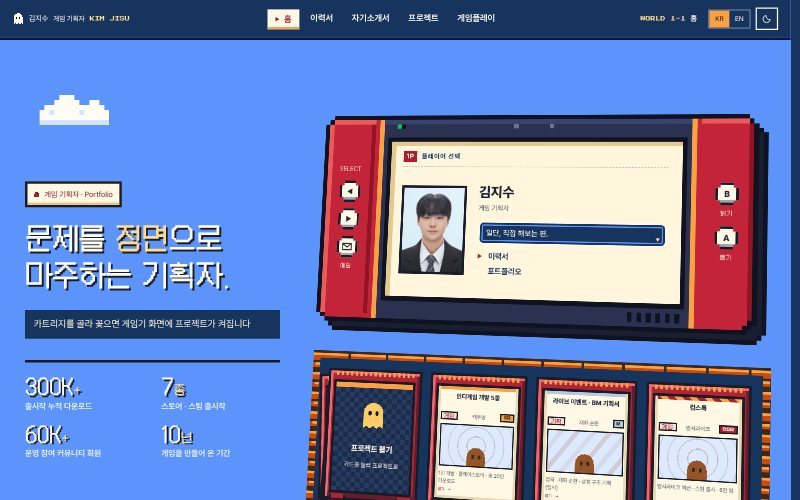
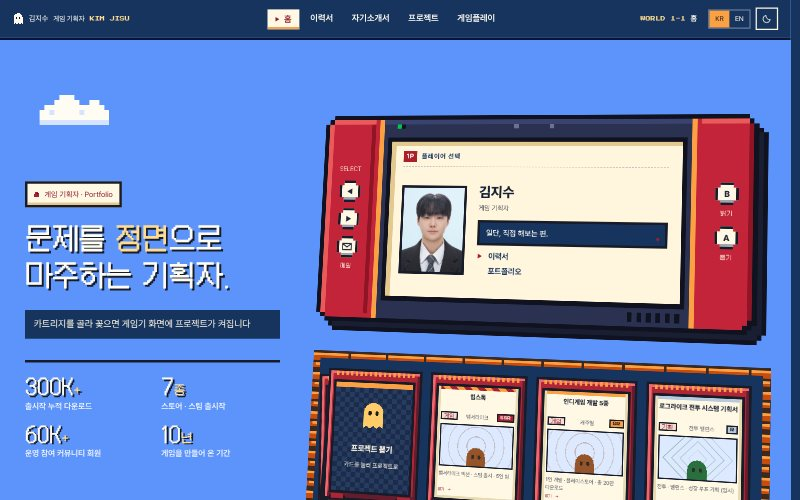
12회차 스테이지 — 하늘은 첫 화면까지, 그 아래 벽돌 땅 → 어두운 지하 + 메뉴 화면 배치
- 배경: 지면(풀 + 벽돌)이 이어지다 그라데이션으로 어두워져 푸터까지 유지. 지면 높이는
  pixel-fc-level.js 가 재서 main 의 --lv-surface 로, 그림은 main::before. 바닥 쪽 두 번째 지면은 제거
- 홈: 개요 절을 .lv-menu 로 묶어 퀘스트(7)+인벤토리(5) / 업적(7)+저장 슬롯(5) 메뉴 화면 한 장
- 하위 페이지: 인적사항 두 단, 핵심역량 한 줄, 경력 날짜 칸 | 내용, 자기소개서 2×2
- 지하의 창 밖 글자는 밝게, 하늘 위 페이지 머리는 남색 유지
- 미리보기 · 회의록 12회차 · CLAUDE.md · 시안 설명(ko/en) 갱신

Claude-Session: https://claude.ai/code/session_01AUp6JzWobjNfSK2Kptzc4x

diff --git a/assets/css/themes/pixel-fc-folio.css b/assets/css/themes/pixel-fc-folio.css
@@ -551,6 +551,91 @@
 :root[data-skin-theme="pixel"][data-skin="pixel-fc-level"] .detail__info::after { content: none; }
 :root[data-skin-theme="pixel"][data-skin="pixel-fc-level"] .detail__title { color: var(--level-white, #fffdf3); text-shadow: var(--level-type-shadow); }
 
+/* ── 12회차: 땅 위 · 땅 밑 ───────────────────────────────────────────────────
+   하늘은 첫 화면(하위 페이지는 페이지 머리)까지만. 그 아래는 지면(풀 한 줄 + 벽돌)이 이어지다 어두운 지하로 내려가
+   푸터까지 그대로. 지면 높이 --lv-surface 는 pixel-fc-level.js 가 재서 main 에 넣습니다(못 재면 첫 화면 높이쯤). */
+:root[data-skin="pixel-fc-level"] { --lv-deep: #0b1122; --lv-under-ink: #edf1f8; --lv-under-muted: #bcc6da; }
+:root[data-skin="pixel-fc-level"][data-theme="dark"] { --lv-deep: #070b16; }
+:root[data-skin-theme="pixel"][data-skin="pixel-fc-level"] main { position: relative; isolation: isolate; --lv-surface: 620px; padding-bottom: 72px; }
+:root[data-skin-theme="pixel"][data-skin="pixel-fc-level"] main::before {
+  content: ''; position: absolute; z-index: -1; inset: var(--lv-surface) 0 0; pointer-events: none;
+  background:
+    linear-gradient(#00a800, #00a800) 0 0 / 100% 8px no-repeat,
+    linear-gradient(#0b6b1c, #0b6b1c) 0 8px / 100% 4px no-repeat,
+    linear-gradient(to bottom, rgb(11 17 34 / 0) 0, rgb(11 17 34 / 0) 44px, rgb(11 17 34 / .6) 140px, rgb(11 17 34 / .9) 240px, var(--lv-deep) 340px) 0 0 / 100% 100% no-repeat,
+    var(--level-ground) 0 12px / 64px 32px repeat;
+  background-color: var(--lv-deep);
+}
+/* 첫 화면의 언덕은 지면 위에 그대로, 풀 · 벽돌은 지하 그림이 이어서 그림 */
+:root[data-skin-theme="pixel"][data-skin="pixel-fc-level"] .home-screen { padding-bottom: 80px; }
+:root[data-skin-theme="pixel"][data-skin="pixel-fc-level"] .home-screen::after { height: 80px; background: var(--level-hill) 8% 0 / 160px 80px no-repeat; }
+/* 바닥 쪽 지면(푸터 위 풀 · 벽돌)은 지하라 없앰 — 푸터도 어두운 지하 그대로 */
+:root[data-skin-theme="pixel"][data-skin="pixel-fc-level"] .footer { margin-top: 0; padding-top: 48px; background: var(--lv-deep); border-top: 4px solid #1d2742; }
+:root[data-skin-theme="pixel"][data-skin="pixel-fc-level"] .footer::before { content: none; }
+/* 지하의 글자: 창 밖(절 설명 · 더 보기 · 상세 왼쪽 칸)은 어두운 바탕 위 밝은 글자 */
+:root[data-skin-theme="pixel"][data-skin="pixel-fc-level"] main > :is(.section, .lv-menu) {
+  --heading: #fffdf3; --text: var(--lv-under-ink); --text-muted: var(--lv-under-muted); --gui-sky-ink: var(--lv-under-muted);
+}
+:root[data-skin-theme="pixel"][data-skin="pixel-fc-level"] .hp .hp-more { color: var(--lv-under-ink); border-bottom-color: #ffdc90; }
+:root[data-skin-theme="pixel"][data-skin="pixel-fc-level"] .hp .hp-more:hover { color: #ffdc90; }
+/* 하위 페이지의 페이지 머리(하늘 위)는 그대로 남색 · 크림 글자 */
+:root[data-skin-theme="pixel"][data-skin="pixel-fc-level"] main > .section:first-of-type :is(.section__head, .proj-head) { --gui-sky-ink: #102346; --text: #102346; --text-muted: #102346; }
+:root[data-skin="pixel-fc-level"][data-theme="dark"] main > .section:first-of-type :is(.section__head, .proj-head) { --gui-sky-ink: #eef3ff; --text: #eef3ff; --text-muted: #eef3ff; }
+/* 페이지 머리와 내용 사이에 지면이 들어갈 자리 */
+:root[data-skin-theme="pixel"][data-skin="pixel-fc-level"] main > .section:first-of-type :is(.section__head, .proj-head) { margin-bottom: 132px; }
+:root[data-skin-theme="pixel"][data-skin="pixel-fc-level"] main > .fcs-stage { margin-bottom: 0; }
+:root[data-skin-theme="pixel"][data-skin="pixel-fc-level"] main > .fcs-stage + .section { padding-top: 112px; }
+:root[data-skin-theme="pixel"][data-skin="pixel-fc-level"] .detail__info { --heading: #fffdf3; --text: var(--lv-under-ink); --text-muted: var(--lv-under-muted); }
+
+/* ── 12회차: 홈 지하 = 메뉴 화면 한 장 ──────────────────────────────────────
+   위 줄 퀘스트(7) + 인벤토리(5), 아래 줄 업적(7) + 저장 슬롯(5). 두 줄의 세로 선이 맞고, 창 높이는 줄마다 같음.
+   '더 보기'는 각 창 바로 아래 오른쪽. */
+:root[data-skin-theme="pixel"][data-skin="pixel-fc-level"] .lv-menu {
+  display: grid; grid-template-columns: minmax(0, 1fr); gap: 56px;
+  width: min(100% - var(--gutter) * 2, var(--folio-max)); margin: 0 auto; padding: 104px 0 24px;
+}
+:root[data-skin-theme="pixel"][data-skin="pixel-fc-level"] .lv-menu > .hp { padding: 0; margin: 0; border: 0; }
+:root[data-skin-theme="pixel"][data-skin="pixel-fc-level"] .lv-menu > .hp > .wrap { width: 100%; max-width: none; padding: 0; margin: 0; }
+:root[data-skin-theme="pixel"][data-skin="pixel-fc-level"] .lv-menu > .hp:not(.hp--summary) > .wrap:not(:has(> .hp-block + .hp-block)),
+:root[data-skin-theme="pixel"][data-skin="pixel-fc-level"] .lv-menu > .hp--summary > .wrap { display: flex; flex-direction: column; height: 100%; }
+:root[data-skin-theme="pixel"][data-skin="pixel-fc-level"] .lv-menu > .hp > .wrap > .hp-block,
+:root[data-skin-theme="pixel"][data-skin="pixel-fc-level"] .lv-menu > .hp > .wrap > .hp-games { flex: 1 1 auto; }
+:root[data-skin-theme="pixel"][data-skin="pixel-fc-level"] .lv-menu .hp-more { margin-top: 18px; }
+@media (min-width: 1000px) {
+  :root[data-skin-theme="pixel"][data-skin="pixel-fc-level"] .lv-menu { grid-template-columns: minmax(0, 7fr) minmax(0, 5fr); gap: 56px 40px; }
+  :root[data-skin-theme="pixel"][data-skin="pixel-fc-level"] .lv-menu > .hp:first-child { grid-column: 1 / -1; }
+  :root[data-skin-theme="pixel"][data-skin="pixel-fc-level"] .lv-menu > .hp:first-child > .wrap { grid-template-columns: minmax(0, 7fr) minmax(0, 5fr); column-gap: 40px; row-gap: 0; align-items: stretch; }
+  /* 저장 슬롯은 좁은 오른쪽 칸이라 세로 목록 */
+  :root[data-skin-theme="pixel"][data-skin="pixel-fc-level"] .lv-menu .hp-games { grid-template-columns: minmax(0, 1fr); }
+  :root[data-skin-theme="pixel"][data-skin="pixel-fc-level"] .lv-menu .hp-games > .hp-game { padding: 16px 0; }
+  :root[data-skin-theme="pixel"][data-skin="pixel-fc-level"] .lv-menu .hp-games > .hp-game:first-child { padding-top: 0; }
+  :root[data-skin-theme="pixel"][data-skin="pixel-fc-level"] .lv-menu .hp-games > .hp-game:last-child { padding-bottom: 0; }
+  :root[data-skin-theme="pixel"][data-skin="pixel-fc-level"] .lv-menu .hp-games > .hp-game + .hp-game { border-left: 0; border-top: var(--gui-sep); }
+}
+
+/* ── 12회차: 하위 페이지 배치 ───────────────────────────────────────────── */
+@media (min-width: 900px) {
+  /* 인적사항: 넓은 창에 한 줄씩 늘어놓던 것을 두 단으로 */
+  :root[data-skin-theme="pixel"][data-skin="pixel-fc-level"] .profile { grid-template-columns: repeat(2, minmax(0, 1fr)); column-gap: 56px; }
+  :root[data-skin-theme="pixel"][data-skin="pixel-fc-level"] .profile .profile__row:nth-child(2) { border-top: 0; }
+  /* 경력: 날짜 칸 | 내용 */
+  :root[data-skin-theme="pixel"][data-skin="pixel-fc-level"] .timeline > .tl-item { display: grid; grid-template-columns: 168px minmax(0, 1fr); column-gap: 32px; align-items: start; }
+  :root[data-skin-theme="pixel"][data-skin="pixel-fc-level"] .timeline > .tl-item > * { grid-column: 2; }
+  :root[data-skin-theme="pixel"][data-skin="pixel-fc-level"] .timeline > .tl-item > .tl-date { grid-column: 1; grid-row: 1 / span 6; margin: 0; padding-top: .3em; }
+}
+@media (min-width: 1100px) {
+  /* 핵심역량 다섯 장: 세 장 + 두 장(빈 자리) 대신 한 줄 */
+  :root[data-skin-theme="pixel"][data-skin="pixel-fc-level"] .section .grid--3:has(> .skill-card) { grid-template-columns: repeat(auto-fit, minmax(200px, 1fr)); gap: 24px; }
+  /* 로고 줄을 카드 바닥으로 밀던 여백을 걷어, 설명 바로 아래에 (좁은 다섯 칸에서 빈 틈이 커 보임) */
+  :root[data-skin-theme="pixel"][data-skin="pixel-fc-level"] .section .grid--3 > .skill-card .card__body { flex: 0 0 auto; }
+}
+@media (min-width: 1000px) {
+  /* 자기소개서 본문 네 덩어리: 왼쪽에 몰린 한 줄 대신 2 × 2 대화창 */
+  :root[data-skin-theme="pixel"][data-skin="pixel-fc-level"] main .section > .wrap:has(> .cover-block) { display: grid; grid-template-columns: repeat(2, minmax(0, 1fr)); gap: 32px 40px; align-items: stretch; }
+  :root[data-skin-theme="pixel"][data-skin="pixel-fc-level"] main .section > .wrap:has(> .cover-block) > :not(.cover-block) { grid-column: 1 / -1; }
+  :root[data-skin-theme="pixel"][data-skin="pixel-fc-level"] main .section > .wrap > .cover-block { max-width: none; margin: 0; }
+}
+
 /* ============================================================================
    랠리 프린트 (pixel-fc-rally) — 빨강 8px 윗띠 + 검은 2px 테 + 노랑 판화 그림자의 인쇄 판,
    이름표 = 사선으로 자른 검은 판(글자는 곧게) + 노랑 줄 · 업적 태그 = 검은 칩 · 구분선 = 가는 인쇄 선

diff --git a/assets/js/themes/pixel-fc-level.js b/assets/js/themes/pixel-fc-level.js
@@ -440,3 +440,53 @@
   if (document.readyState === 'loading') document.addEventListener('DOMContentLoaded', initStageDecor);
   else initStageDecor();
 })();
+
+/* 12회차 — 땅 위 · 땅 밑. 하늘은 첫 화면(하위 페이지는 페이지 머리)까지만, 그 바로 아래가 지면(풀 · 벽돌)이고
+   벽돌 땅이 이어지다 어두운 지하로 내려갑니다. 지면 높이는 화면마다 달라 여기서 재어 main 의 --lv-surface 로 넘기고,
+   그림은 CSS(pixel-fc-folio.css 의 스테이지 절, main::before)가 그립니다.
+   홈은 지하의 네 창을 한 장의 메뉴 화면으로 묶으려고 개요 절들을 .lv-menu 하나에 담습니다(내용 · 순서는 그대로). */
+(function () {
+  'use strict';
+  var SKIN = 'pixel-fc-level';
+  function active() { return document.documentElement.getAttribute('data-skin') === SKIN; }
+  function mainEl() { return document.querySelector('[data-slot="main"]'); }
+  function groupMenu(main) {
+    if (!main.querySelector(':scope > .home-screen') || main.querySelector(':scope > .lv-menu')) return;
+    var parts = main.querySelectorAll(':scope > section.hp');
+    if (!parts.length) return;
+    var menu = document.createElement('div');
+    menu.className = 'lv-menu';
+    main.insertBefore(menu, parts[0]);
+    Array.prototype.forEach.call(parts, function (s) { menu.appendChild(s); });
+  }
+  function measure() {
+    var main = mainEl(); if (!main) return;
+    if (!active()) { main.style.removeProperty('--lv-surface'); return; }
+    var top = main.getBoundingClientRect().top, y = 0;
+    var first = main.querySelector(':scope > .home-screen, :scope > .fcs-stage');
+    var head = main.querySelector(':scope > .section:first-of-type :is(.section__head, .proj-head)');
+    if (first) y = first.getBoundingClientRect().bottom - top;
+    else if (head && !main.querySelector('.detail')) y = head.getBoundingClientRect().bottom - top + 36;
+    main.style.setProperty('--lv-surface', Math.round(y) + 'px');
+  }
+  var queued = false;
+  function update() {
+    if (queued) return; queued = true;
+    requestAnimationFrame(function () {
+      queued = false;
+      var main = mainEl(); if (!main) return;
+      if (active()) groupMenu(main);
+      measure();
+    });
+  }
+  function init() {
+    update();
+    var main = mainEl();
+    if (main && window.MutationObserver) new MutationObserver(update).observe(main, { childList: true });
+    if (main && window.ResizeObserver) new ResizeObserver(update).observe(main);
+    if (window.MutationObserver) new MutationObserver(update).observe(document.documentElement, { attributes: true, attributeFilter: ['data-skin', 'lang'] });
+    window.addEventListener('resize', update);
+    if (document.fonts && document.fonts.ready) document.fonts.ready.then(update);
+  }
+  if (document.readyState === 'loading') document.addEventListener('DOMContentLoaded', init); else init();
+})();

diff --git a/assets/js/themes.js b/assets/js/themes.js
@@ -125,8 +125,8 @@
           fonts: [G + 'Black+Han+Sans&family=Do+Hyeon'],
           swatch: ['#c9a678', '#f3ead6', '#a3203a', '#1d1d1b'] },
         { id: 'fc-level', name: { ko: '패미컴 · 스테이지', en: 'Famicom · Stage' },
-          desc: { ko: '참고 그림 ⑩. 페이지 전체가 한 스테이지 — 게임 화면식 상단 메뉴(WORLD 1-1)와 땅 블록 지형. 하늘 위 창은 벽돌 턱을 얹은 크림 발판, 인벤토리 칸은 주황 물음표 블록, 절 제목은 물음표 블록이 붙은 남색 이름표.',
-                  en: 'Reference ⑩: the whole page as one game level — a HUD-style top bar (WORLD 1-1) and ground-block terrain. Windows in the sky are cream platforms topped with a brick ledge, inventory slots are orange question blocks, and each section is titled by a navy name tab with a question block.' },
+          desc: { ko: '참고 그림 ⑩. 페이지 전체가 한 스테이지 — 게임 화면식 상단 메뉴(WORLD 1-1). 하늘은 첫 화면까지만, 그 아래로 벽돌 땅이 이어지다 어두운 지하로 내려가고, 지하에는 벽돌 턱을 얹은 크림 발판 창이 메뉴 화면처럼 놓입니다(인벤토리 칸 = 주황 물음표 블록).',
+                  en: 'Reference ⑩: the whole page as one game level with a HUD-style top bar (WORLD 1-1). The sky stops after the first screen; below it the brick ground runs on and fades into a dark underground, where cream brick-ledge windows sit like a pause menu (inventory slots are orange question blocks).' },
           scripts: ['js/themes/pixel-fc-level.js', 'js/themes/fc-stage.js', 'js/themes/fc-body.js'],
           css: ['css/themes/pixel-fc-folio.css'],
           swatch: ['#5c94fc', '#c84c0c', '#fca044', '#00a800'] },

diff --git a/CLAUDE.md b/CLAUDE.md
@@ -83,6 +83,10 @@
   크라프트 = 외곽선 없는 둥근 크림 라벨(오른쪽 위 타공) · 이름표는 라벨에서 이어져 올라온 폴더 탭(진홍 라벨 활자) · 업적 칸 위 거대한 진홍 숫자 /
   스테이지 = 벽돌 턱 한 줄 + 크림 판 + 남색 테 발판 · 인벤토리 칸은 주황 물음표 블록(빈 칸 = 다 쓴 블록) · 남색 이름표 + 물음표 블록(하늘 위 작은 글자는 `--gui-sky-ink` 남색) /
   랠리 = 빨강 8px 윗띠 + 검은 2px 테 + 노랑 판화 그림자 · 사선으로 자른 검은 이름표 + 노랑 줄 · 업적 태그는 검은 칩.
+- **스테이지 땅 위 · 땅 밑(12회차)**: 하늘은 첫 화면(하위 페이지는 페이지 머리)까지만이고, 그 아래는 지면(풀 + 벽돌) → 어두운 지하가 푸터까지 이어집니다.
+  지면 높이는 `pixel-fc-level.js` 맨 아래 블록이 재서 `main` 의 `--lv-surface` 로 넣고(첫 화면 `.home-screen`/`.fcs-stage` 아래, 없으면 첫 절 머리 아래 + 36px, 상세는 0),
+  `main::before` 가 그립니다. 홈은 같은 블록이 개요 절들을 `.lv-menu` 하나에 담아 위 줄 퀘스트(7) + 인벤토리(5), 아래 줄 업적(7) + 저장 슬롯(5) 메뉴 화면으로 놓습니다.
+  지하의 창 밖 글자는 밝은 토큰(`--lv-under-*`), 하늘 위 페이지 머리만 남색입니다. 하위 페이지는 인적사항 두 단 · 핵심역량 한 줄 · 경력 날짜 칸 | 내용 · 자기소개서 2 × 2.
 - **랠리는 기울임꼴을 쓰지 않습니다** — 한글 글꼴에는 기울임 꼴이 없어 브라우저가 억지로 눕힌 가짜 이탤릭이 됩니다. 사선은 `clip-path` 로 상자 모양에만(글자까지 눕히는 `skewX` 금지).
 - `:is()` 안에는 가상 요소(`::before` 등)를 넣을 수 없습니다 — 넣으면 규칙 전체가 무시되니 `…::before, …::after` 로 따로 적으세요.
 
